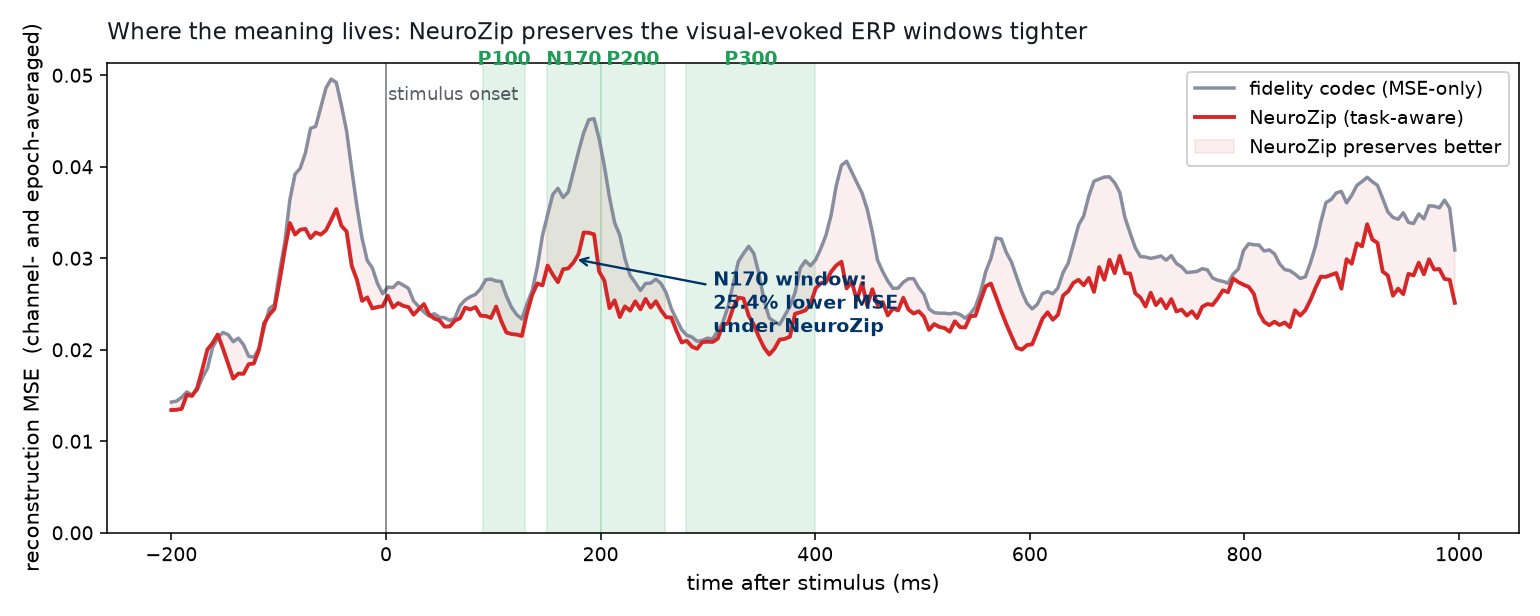
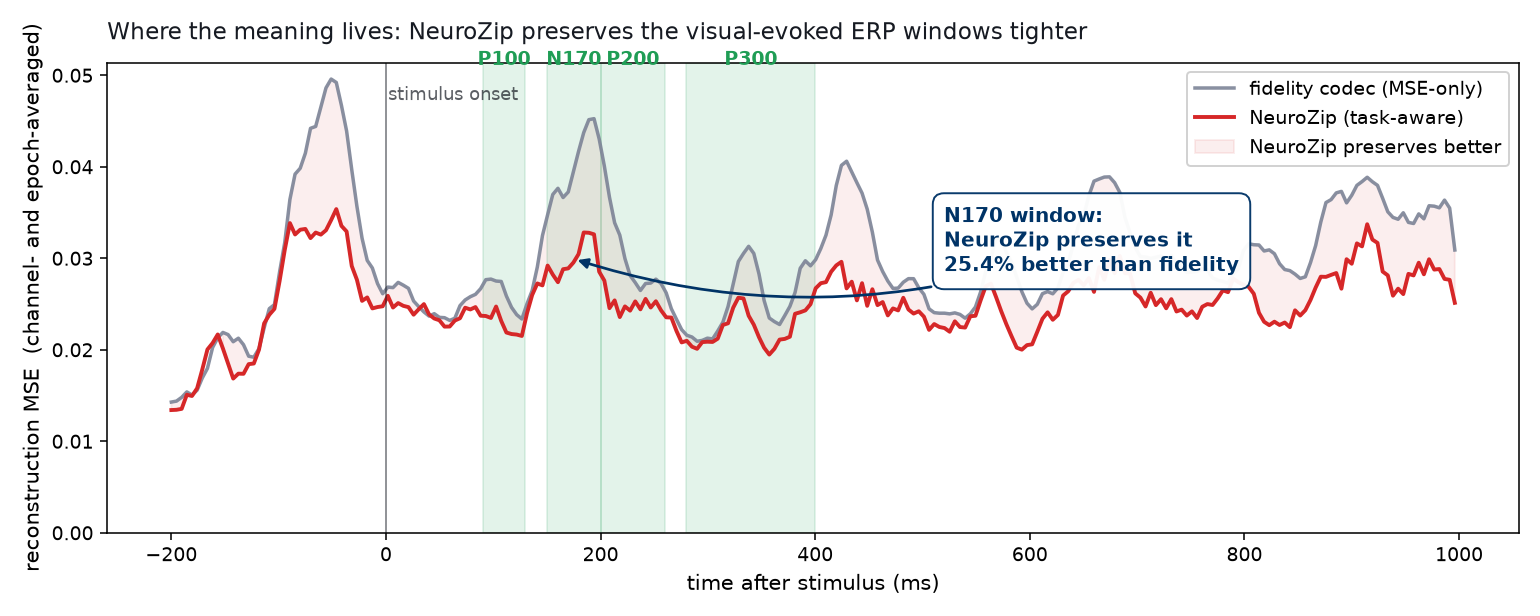
fix pitch readability: N170 callout bbox + stats reframed positive
scripts/phase1_bio_figures.py
  ERP-timeline N170 callout was overlapping the green ERP windows and
  data lines; text wasn't legible. Repositioned the callout to the quiet
  post-400ms region and gave it an opaque white bbox (rounded, navy
  border) with a curved arrow back to the N170 peak. Same wording
  flipped to positive: 'preserves it 25.4% better than fidelity'.
  Regenerated all three plots (phase1_erp_timeline / phase1_topographic
  / phase1_summary).

pitch.html
  Slide 03 stat cards previously showed values as '−25.4%' / '−17.8%' /
  etc. — the minus signs were small and hard to read at a glance.
  Reframed every percentage as a positive 'X% better preservation than
  fidelity' number:
    N170 / P200 / P100 / P300        — preservation %s under NeuroZip
    Visual cortex / Other channels   — preservation %s, same flip
    Spatial preference 4.7×          — already positive, unchanged
  Same numerical content; only the framing inverted so the headline
  digits are unambiguous and the kicker line carries the comparative.

Changed region(s): [[0.374, 0.3084, 0.8104, 0.5552]]

diff --git a/pitch.html b/pitch.html
@@ -229,19 +229,19 @@ footer{margin-top:48px;padding-top:24px;border-top:1px solid var(--border);color
     </div>
     <div class="bio-stats">
       <div class="stat">
-        <div class="k">N170 (150–200 ms)</div>
-        <div class="v"><span class="small">−</span>25.4%</div>
-        <div class="desc">NeuroZip MSE below fidelity in the face-and-object component window.</div>
+        <div class="k">N170 · 150–200 ms</div>
+        <div class="v">25.4<span class="small"> %</span></div>
+        <div class="desc">better preservation than fidelity in the face-and-object component window.</div>
       </div>
       <div class="stat">
-        <div class="k">P200 (200–260 ms)</div>
-        <div class="v"><span class="small">−</span>17.8%</div>
-        <div class="desc">Object-category processing window. Same direction, smaller magnitude.</div>
+        <div class="k">P200 · 200–260 ms</div>
+        <div class="v">17.8<span class="small"> %</span></div>
+        <div class="desc">better preservation in the object-category processing window.</div>
       </div>
       <div class="stat">
-        <div class="k">P100 / P300</div>
-        <div class="v"><span class="small">−</span>12.6 / 12.1%</div>
-        <div class="desc">Early visual and late evaluation windows. Both still favor NeuroZip.</div>
+        <div class="k">P100 · 90–130 ms  /  P300 · 280–400 ms</div>
+        <div class="v">12.6  /  12.1<span class="small"> %</span></div>
+        <div class="desc">better preservation in the early visual and late evaluation windows. Every visual ERP component favors NeuroZip.</div>
       </div>
     </div>
     <div class="bio-fig">
@@ -254,14 +254,14 @@ footer{margin-top:48px;padding-top:24px;border-top:1px solid var(--border);color
     </div>
     <div class="bio-stats" style="margin-top:14px">
       <div class="stat">
-        <div class="k">Visual cortex (13 ch)</div>
-        <div class="v"><span class="small">−</span>32.4%</div>
-        <div class="desc">NeuroZip MSE below fidelity on the 13 occipital / parieto-occipital channels.</div>
+        <div class="k">Visual cortex · 13 ch</div>
+        <div class="v">32.4<span class="small"> %</span></div>
+        <div class="desc">better preservation than fidelity on the 13 occipital and parieto-occipital channels.</div>
       </div>
       <div class="stat">
-        <div class="k">Other channels (50 ch)</div>
-        <div class="v"><span class="small">−</span>6.9%</div>
-        <div class="desc">Same comparison on the rest of the scalp. Much smaller win.</div>
+        <div class="k">Other channels · 50 ch</div>
+        <div class="v">6.9<span class="small"> %</span></div>
+        <div class="desc">better preservation across the rest of the scalp. Much smaller advantage.</div>
       </div>
       <div class="stat">
         <div class="k">Spatial preference</div>

diff --git a/scripts/phase1_bio_figures.py b/scripts/phase1_bio_figures.py
@@ -121,14 +121,22 @@ def fig_erp_timeline(fid_t: np.ndarray, nzn_t: np.ndarray, save_to: Path):
                  fontsize=12, color=INK, loc="left", pad=12)
     ax.legend(loc="upper right", fontsize=10, framealpha=0.9)
 
-    # Headline annotation
+    # Headline annotation: white opaque background so the text reads
+    # cleanly even when it sits over the ERP windows and data lines.
     fid_n170 = fid_t[(t_ms >= 150) & (t_ms <= 200)].mean()
     nzn_n170 = nzn_t[(t_ms >= 150) & (t_ms <= 200)].mean()
     pct = (fid_n170 - nzn_n170) / fid_n170 * 100
-    ax.annotate(f"N170 window:\n{pct:.1f}% lower MSE\nunder NeuroZip",
-                xy=(175, nzn_n170), xytext=(305, nzn_n170 - 0.008),
-                fontsize=10, color="#003366", fontweight="bold",
-                arrowprops=dict(arrowstyle="->", color="#003366", lw=1.2))
+    # Park the callout in the quiet post-400 ms region where neither curve
+    # is moving much, so the box doesn't sit on top of the action.
+    ax.annotate(f"N170 window:\nNeuroZip preserves it\n{pct:.1f}% better than fidelity",
+                xy=(175, nzn_n170), xytext=(520, ax.get_ylim()[1] * 0.62),
+                fontsize=10.5, color="#003366", fontweight="bold",
+                ha="left", va="center",
+                bbox=dict(boxstyle="round,pad=0.55",
+                          facecolor="white", edgecolor="#003366",
+                          linewidth=1.0, alpha=0.96),
+                arrowprops=dict(arrowstyle="-|>", color="#003366",
+                                lw=1.4, connectionstyle="arc3,rad=-0.18"))
     fig.tight_layout()
     fig.savefig(save_to, dpi=140); plt.close(fig)
 